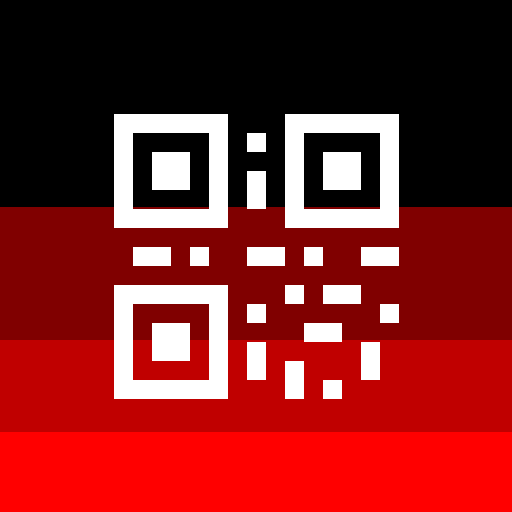
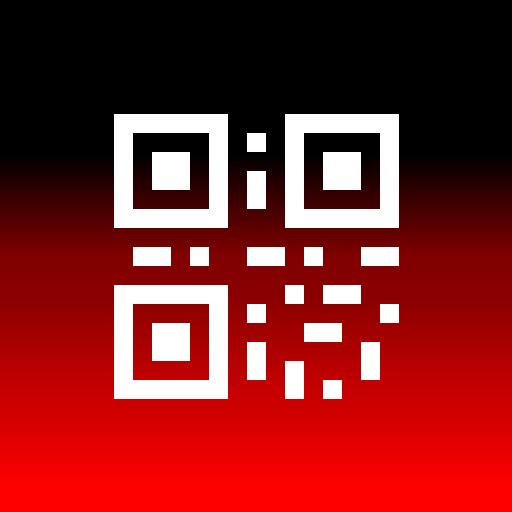
QR 바로 찍기 v004: 아이콘 색 경계 부드럽게(그라데이션)

diff --git a/qr/index.html b/qr/index.html
@@ -6,8 +6,8 @@
 <meta name="theme-color" content="#1f2937">
 <title>QR 바로 찍기</title>
 <link rel="manifest" href="manifest.webmanifest">
-<link rel="icon" href="icon-192.png?v=3">
-<link rel="apple-touch-icon" href="icon-192.png?v=3">
+<link rel="icon" href="icon-192.png?v=4">
+<link rel="apple-touch-icon" href="icon-192.png?v=4">
 <style>
 *{box-sizing:border-box;-webkit-tap-highlight-color:transparent}
 html,body{margin:0;height:100%;background:#111827;font-family:-apple-system,"Malgun Gothic","Apple SD Gothic Neo",sans-serif;color:#111827;word-break:keep-all;overflow-wrap:break-word}
@@ -60,7 +60,7 @@ video{width:100%;height:100%;object-fit:cover;display:block}
 <div id="cam">
   <video id="v" playsinline muted autoplay></video>
   <div class="frame" id="frame"><div class="line"></div></div>
-  <div class="top"><b>QR 바로 찍기</b><small>v003</small></div>
+  <div class="top"><b>QR 바로 찍기</b><small>v004</small></div>
   <div class="hint" id="hint">네모 안에 QR을 비춰 주세요</div>
   <div class="bar">
     <button id="bLight" style="display:none">손전등</button>

diff --git a/qr/sw.js b/qr/sw.js
@@ -1,4 +1,4 @@
-const C='qr-v003';
+const C='qr-v004';
 const FILES=['./','./index.html','./jsQR.js','./manifest.webmanifest','./icon-192.png','./icon-512.png'];
 self.addEventListener('install',e=>{self.skipWaiting();e.waitUntil(caches.open(C).then(c=>c.addAll(FILES)))});
 self.addEventListener('activate',e=>{e.waitUntil(caches.keys().then(ks=>Promise.all(ks.filter(k=>k!==C).map(k=>caches.delete(k)))).then(()=>self.clients.claim()))});
